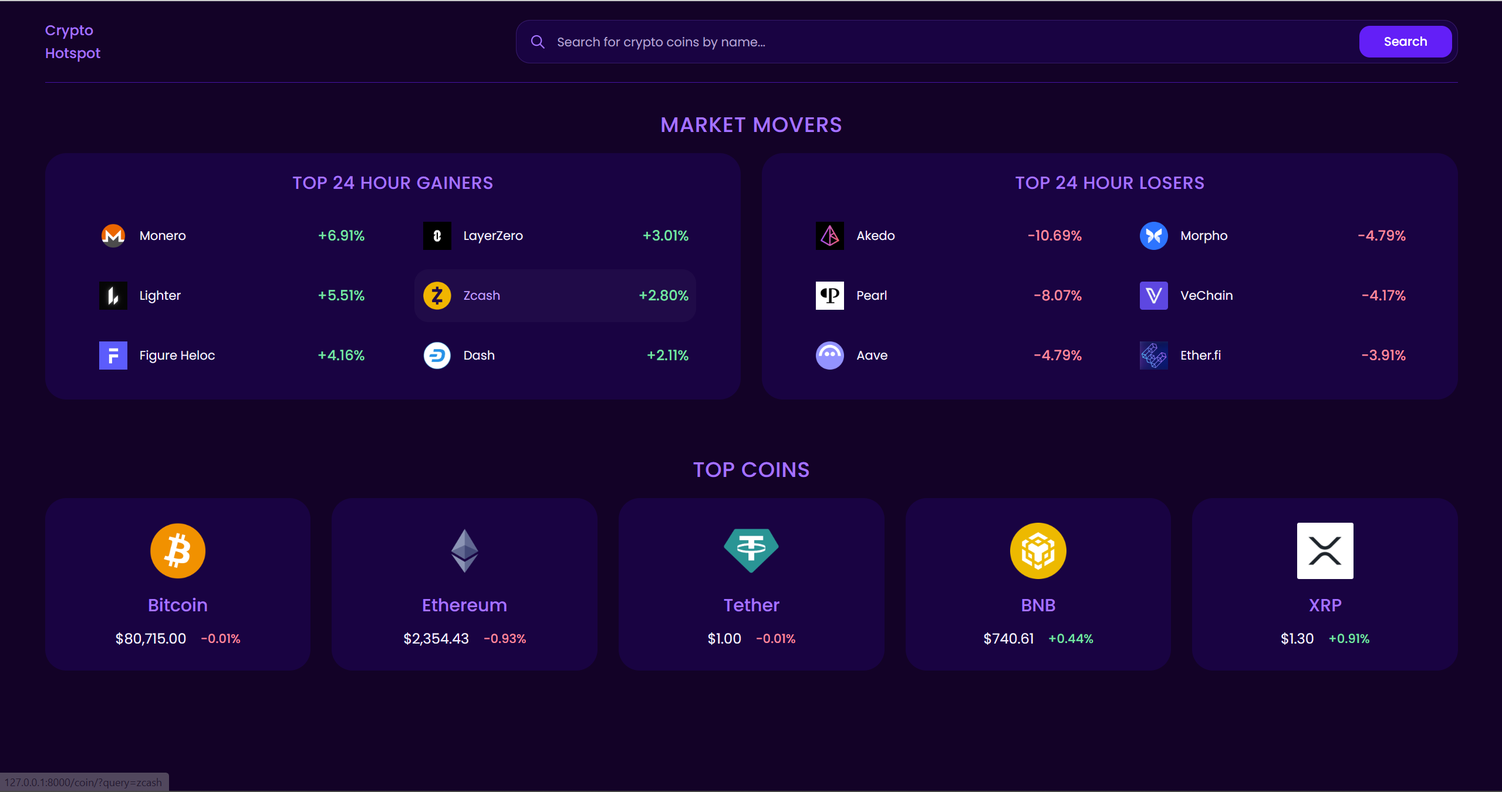
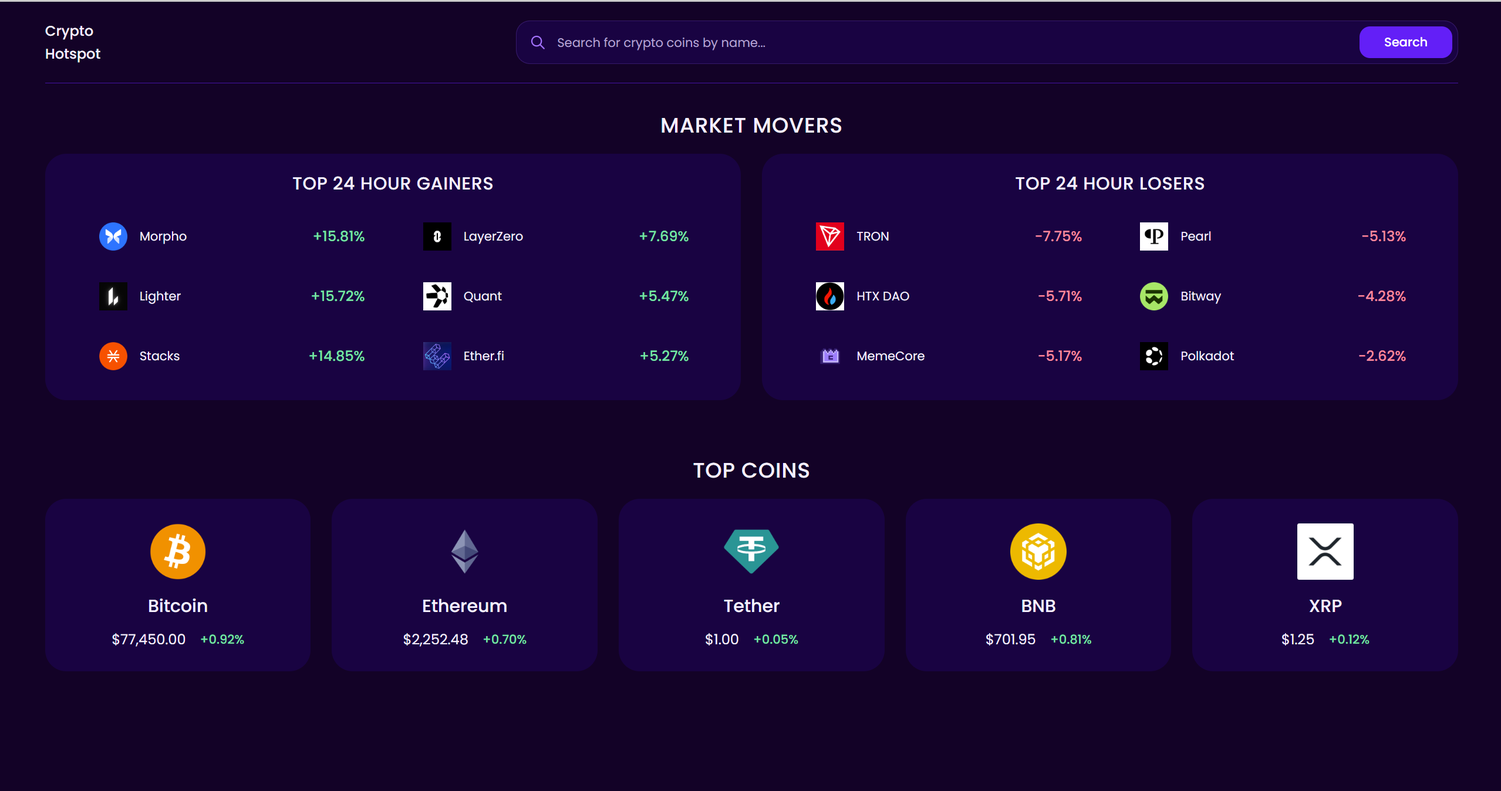
Updated dashboard text colors

diff --git a/tracker/static/css/tailwind.css b/tracker/static/css/tailwind.css
@@ -1,2 +1,2 @@
 /*! tailwindcss v4.3.3 | MIT License | https://tailwindcss.com */
-@layer properties{@supports (((-webkit-hyphens:none)) and (not (margin-trim:inline))) or ((-moz-orient:inline) and (not (color:rgb(from red r g b)))){*,:before,:after,::backdrop{--tw-space-y-reverse:0;--tw-border-style:solid;--tw-leading:initial;--tw-font-weight:initial;--tw-tracking:initial;--tw-ordinal:initial;--tw-slashed-zero:initial;--tw-numeric-figure:initial;--tw-numeric-spacing:initial;--tw-numeric-fraction:initial;--tw-shadow:0 0 #0000;--tw-shadow-color:initial;--tw-shadow-alpha:100%;--tw-inset-shadow:0 0 #0000;--tw-inset-shadow-color:initial;--tw-inset-shadow-alpha:100%;--tw-ring-color:initial;--tw-ring-shadow:0 0 #0000;--tw-inset-ring-color:initial;--tw-inset-ring-shadow:0 0 #0000;--tw-ring-inset:initial;--tw-ring-offset-width:0px;--tw-ring-offset-color:#fff;--tw-ring-offset-shadow:0 0 #0000;--tw-outline-style:solid}}}@layer theme{:root,:host{--font-sans:-apple-system, BlinkMacSystemFont, "Segoe UI", Roboto, "Helvetica Neue", "Noto Sans", Arial, sans-serif, "Apple Color Emoji", "Segoe UI Emoji", "Segoe UI Symbol", "Noto Color Emoji";--font-mono:ui-monospace, SFMono-Regular, Menlo, Monaco, Consolas, "Liberation Mono", "Courier New", monospace;--color-white:#fff;--spacing:.25rem;--text-xs:.75rem;--text-xs--line-height:calc(1 / .75);--text-sm:.875rem;--text-sm--line-height:calc(1.25 / .875);--text-base:1rem;--text-base--line-height:calc(1.5 / 1);--text-xl:1.25rem;--text-xl--line-height:calc(1.75 / 1.25);--text-2xl:1.5rem;--text-2xl--line-height:calc(2 / 1.5);--font-weight-normal:400;--font-weight-medium:500;--tracking-wide:.025em;--leading-relaxed:1.625;--radius-sm:.25rem;--radius-lg:.5rem;--radius-xl:.75rem;--radius-2xl:1rem;--radius-3xl:1.5rem;--default-transition-duration:.15s;--default-transition-timing-function:cubic-bezier(.4, 0, .2, 1);--default-font-family:var(--font-sans);--default-mono-font-family:var(--font-mono)}}@layer base{*,:after,:before,::backdrop{box-sizing:border-box;border:0 solid;margin:0;padding:0}::file-selector-button{box-sizing:border-box;border:0 solid;margin:0;padding:0}html,:host{-webkit-text-size-adjust:100%;tab-size:4;line-height:1.5;font-family:var(--default-font-family,-apple-system, BlinkMacSystemFont, "Segoe UI", Roboto, "Helvetica Neue", "Noto Sans", Arial, sans-serif, "Apple Color Emoji", "Segoe UI Emoji", "Segoe UI Symbol", "Noto Color Emoji");font-feature-settings:var(--default-font-feature-settings,normal);font-variation-settings:var(--default-font-variation-settings,normal);-webkit-tap-highlight-color:transparent}hr{height:0;color:inherit;border-top-width:1px}abbr:where([title]){-webkit-text-decoration:underline dotted;text-decoration:underline dotted}h1,h2,h3,h4,h5,h6{font-size:inherit;font-weight:inherit}a{color:inherit;-webkit-text-decoration:inherit;-webkit-text-decoration:inherit;-webkit-text-decoration:inherit;text-decoration:inherit}b,strong{font-weight:bolder}code,kbd,samp,pre{font-family:var(--default-mono-font-family,ui-monospace, SFMono-Regular, Menlo, Monaco, Consolas, "Liberation Mono", "Courier New", monospace);font-feature-settings:var(--default-mono-font-feature-settings,normal);font-variation-settings:var(--default-mono-font-variation-settings,normal);font-size:1em}small{font-size:80%}sub,sup{vertical-align:baseline;font-size:75%;line-height:0;position:relative}sub{bottom:-.25em}sup{top:-.5em}table{text-indent:0;border-color:inherit;border-collapse:collapse}:-moz-focusring:where(:not(iframe)){outline:auto}progress{vertical-align:baseline}summary{display:list-item}ol,ul,menu{list-style:none}img,svg,video,canvas,audio,iframe,embed,object{vertical-align:middle;display:block}img,video{max-width:100%;height:auto}button,input,select,optgroup,textarea{font:inherit;font-feature-settings:inherit;font-variation-settings:inherit;letter-spacing:inherit;color:inherit;opacity:1;background-color:#0000;border-radius:0}::file-selector-button{font:inherit;font-feature-settings:inherit;font-variation-settings:inherit;letter-spacing:inherit;color:inherit;opacity:1;background-color:#0000;border-radius:0}:where(select:is([multiple],[size])) optgroup{font-weight:bolder}:where(select:is([multiple],[size])) optgroup option{padding-inline-start:20px}::file-selector-button{margin-inline-end:4px}::placeholder{opacity:1}@supports (not ((-webkit-appearance:-apple-pay-button))) or (contain-intrinsic-size:1px){::placeholder{color:currentColor}@supports (color:color-mix(in lab, red, red)){::placeholder{color:color-mix(in oklab, currentcolor 50%, transparent)}}}textarea{resize:vertical}::-webkit-search-decoration{-webkit-appearance:none}::-webkit-date-and-time-value{min-height:1lh;text-align:inherit}::-webkit-datetime-edit{display:inline-flex}::-webkit-datetime-edit-fields-wrapper{padding:0}::-webkit-datetime-edit{padding-block:0}::-webkit-datetime-edit-year-field{padding-block:0}::-webkit-datetime-edit-month-field{padding-block:0}::-webkit-datetime-edit-day-field{padding-block:0}::-webkit-datetime-edit-hour-field{padding-block:0}::-webkit-datetime-edit-minute-field{padding-block:0}::-webkit-datetime-edit-second-field{padding-block:0}::-webkit-datetime-edit-millisecond-field{padding-block:0}::-webkit-datetime-edit-meridiem-field{padding-block:0}::-webkit-calendar-picker-indicator{line-height:1}:-moz-ui-invalid{box-shadow:none}button,input:where([type=button],[type=reset],[type=submit]){appearance:button}::file-selector-button{appearance:button}::-webkit-inner-spin-button{height:auto}::-webkit-outer-spin-button{height:auto}[hidden]:where(:not([hidden=until-found])){display:none!important}html{color-scheme:dark}body{margin:0}}@layer components;@layer utilities{.sr-only{clip-path:inset(50%);white-space:nowrap;border-width:0;width:1px;height:1px;margin:-1px;padding:0;position:absolute;overflow:hidden}.relative{position:relative}.static{position:static}.order-1{order:1}.order-2{order:2}.order-3{order:3}.order-4{order:4}.col-span-full{grid-column:1/-1}.row-span-full{grid-row:1/-1}.mx-auto{margin-inline:auto}.mt-2{margin-top:calc(var(--spacing) * 2)}.mt-3{margin-top:calc(var(--spacing) * 3)}.mb-3{margin-bottom:calc(var(--spacing) * 3)}.mb-4{margin-bottom:calc(var(--spacing) * 4)}.mb-5{margin-bottom:calc(var(--spacing) * 5)}.mb-6{margin-bottom:calc(var(--spacing) * 6)}.ml-2{margin-left:calc(var(--spacing) * 2)}.line-clamp-2{-webkit-line-clamp:2;-webkit-box-orient:vertical;display:-webkit-box;overflow:hidden}.block{display:block}.flex{display:flex}.grid{display:grid}.hidden{display:none}.inline-flex{display:inline-flex}.size-5{width:calc(var(--spacing) * 5);height:calc(var(--spacing) * 5)}.size-8{width:calc(var(--spacing) * 8);height:calc(var(--spacing) * 8)}.size-9{width:calc(var(--spacing) * 9);height:calc(var(--spacing) * 9)}.size-16{width:calc(var(--spacing) * 16);height:calc(var(--spacing) * 16)}.size-18{width:calc(var(--spacing) * 18);height:calc(var(--spacing) * 18)}.h-9{height:calc(var(--spacing) * 9)}.h-96{height:calc(var(--spacing) * 96)}.min-h-0{min-height:0}.min-h-screen{min-height:100vh}.w-\[94\%\]{width:94%}.w-fit{width:fit-content}.w-full{width:100%}.max-w-\[20rem\]{max-width:20rem}.max-w-\[43rem\]{max-width:43rem}.min-w-0{min-width:0}.flex-1{flex:1}.shrink-0{flex-shrink:0}.cursor-pointer{cursor:pointer}.\[scrollbar-width\:thin\]{scrollbar-width:thin}.\[scrollbar-color\:\#6805F2_transparent\]{scrollbar-color:#6805f2 transparent}.grid-cols-1{grid-template-columns:repeat(1,minmax(0,1fr))}.grid-cols-2{grid-template-columns:repeat(2,minmax(0,1fr))}.grid-cols-\[2\.25rem_minmax\(0\,1fr\)_auto\]{grid-template-columns:2.25rem minmax(0,1fr) auto}.flex-col{flex-direction:column}.flex-wrap{flex-wrap:wrap}.items-center{align-items:center}.justify-center{justify-content:center}.justify-items-center{justify-items:center}.gap-1\.5{gap:calc(var(--spacing) * 1.5)}.gap-2{gap:calc(var(--spacing) * 2)}.gap-3{gap:calc(var(--spacing) * 3)}.gap-4{gap:calc(var(--spacing) * 4)}.gap-5{gap:calc(var(--spacing) * 5)}:where(.space-y-2>:not(:last-child)){--tw-space-y-reverse:0;margin-block-start:calc(calc(var(--spacing) * 2) * var(--tw-space-y-reverse));margin-block-end:calc(calc(var(--spacing) * 2) * calc(1 - var(--tw-space-y-reverse)))}:where(.space-y-3>:not(:last-child)){--tw-space-y-reverse:0;margin-block-start:calc(calc(var(--spacing) * 3) * var(--tw-space-y-reverse));margin-block-end:calc(calc(var(--spacing) * 3) * calc(1 - var(--tw-space-y-reverse)))}:where(.space-y-8>:not(:last-child)){--tw-space-y-reverse:0;margin-block-start:calc(calc(var(--spacing) * 8) * var(--tw-space-y-reverse));margin-block-end:calc(calc(var(--spacing) * 8) * calc(1 - var(--tw-space-y-reverse)))}.gap-x-3{column-gap:calc(var(--spacing) * 3)}.gap-x-4{column-gap:calc(var(--spacing) * 4)}.gap-x-10{column-gap:calc(var(--spacing) * 10)}.gap-y-1{row-gap:var(--spacing)}.gap-y-2{row-gap:calc(var(--spacing) * 2)}.gap-y-6{row-gap:calc(var(--spacing) * 6)}.truncate{text-overflow:ellipsis;white-space:nowrap;overflow:hidden}.overflow-y-auto{overflow-y:auto}.rounded{border-radius:.25rem}.rounded-2xl{border-radius:var(--radius-2xl)}.rounded-3xl{border-radius:var(--radius-3xl)}.rounded-lg{border-radius:var(--radius-lg)}.rounded-sm{border-radius:var(--radius-sm)}.rounded-xl{border-radius:var(--radius-xl)}.border{border-style:var(--tw-border-style);border-width:1px}.border-0{border-style:var(--tw-border-style);border-width:0}.border-b{border-bottom-style:var(--tw-border-style);border-bottom-width:1px}.border-\[\#6805F2\]\/60{border-color:oklab(49.3026% .0862667 -.266985/.6)}.border-\[\#A970FF\]\/20{border-color:oklab(66.9861% .10007 -.179237/.2)}.bg-\[\#1B0140\]{background-color:#1b0140}.bg-\[\#6805F2\]{background-color:#6805f2}.bg-\[\#140126\]{background-color:#140126}.bg-transparent{background-color:#0000}.object-contain{object-fit:contain}.p-1\.5{padding:calc(var(--spacing) * 1.5)}.p-4{padding:calc(var(--spacing) * 4)}.p-5{padding:calc(var(--spacing) * 5)}.px-1{padding-inline:var(--spacing)}.px-2{padding-inline:calc(var(--spacing) * 2)}.px-3{padding-inline:calc(var(--spacing) * 3)}.px-4{padding-inline:calc(var(--spacing) * 4)}.px-5{padding-inline:calc(var(--spacing) * 5)}.py-3{padding-block:calc(var(--spacing) * 3)}.py-4{padding-block:calc(var(--spacing) * 4)}.py-5{padding-block:calc(var(--spacing) * 5)}.py-6{padding-block:calc(var(--spacing) * 6)}.py-8{padding-block:calc(var(--spacing) * 8)}.pr-2{padding-right:calc(var(--spacing) * 2)}.text-center{text-align:center}.text-right{text-align:right}.font-\[\'Poppins\'\,sans-serif\]{font-family:Poppins,sans-serif}.text-2xl{font-size:var(--text-2xl);line-height:var(--tw-leading,var(--text-2xl--line-height))}.text-base{font-size:var(--text-base);line-height:var(--tw-leading,var(--text-base--line-height))}.text-sm{font-size:var(--text-sm);line-height:var(--tw-leading,var(--text-sm--line-height))}.text-xl{font-size:var(--text-xl);line-height:var(--tw-leading,var(--text-xl--line-height))}.text-xs{font-size:var(--text-xs);line-height:var(--tw-leading,var(--text-xs--line-height))}.leading-relaxed{--tw-leading:var(--leading-relaxed);line-height:var(--leading-relaxed)}.font-medium{--tw-font-weight:var(--font-weight-medium);font-weight:var(--font-weight-medium)}.font-normal{--tw-font-weight:var(--font-weight-normal);font-weight:var(--font-weight-normal)}.tracking-wide{--tw-tracking:var(--tracking-wide);letter-spacing:var(--tracking-wide)}.break-words{overflow-wrap:break-word}.whitespace-nowrap{white-space:nowrap}.text-\[\#66E5A5\]{color:#66e5a5}.text-\[\#A970FF\]{color:#a970ff}.text-\[\#B7A3CF\]{color:#b7a3cf}.text-\[\#C7A0FF\]{color:#c7a0ff}.text-\[\#CDBDE5\]{color:#cdbde5}.text-\[\#D8C9ED\]{color:#d8c9ed}.text-\[\#F5F0FF\]{color:#f5f0ff}.text-\[\#FF8C9F\]{color:#ff8c9f}.text-white{color:var(--color-white)}.uppercase{text-transform:uppercase}.tabular-nums{--tw-numeric-spacing:tabular-nums;font-variant-numeric:var(--tw-ordinal,) var(--tw-slashed-zero,) var(--tw-numeric-figure,) var(--tw-numeric-spacing,) var(--tw-numeric-fraction,)}.antialiased{-webkit-font-smoothing:antialiased;-moz-osx-font-smoothing:grayscale}.transition-colors{transition-property:color,background-color,border-color,outline-color,text-decoration-color,fill,stroke,--tw-gradient-from,--tw-gradient-via,--tw-gradient-to;transition-timing-function:var(--tw-ease,var(--default-transition-timing-function));transition-duration:var(--tw-duration,var(--default-transition-duration))}@media (hover:hover){.group-hover\:text-\[\#C7A0FF\]:is(:where(.group):hover *){color:#c7a0ff}}.selection\:bg-\[\#6805F2\] ::selection{background-color:#6805f2}.selection\:bg-\[\#6805F2\]::selection{background-color:#6805f2}.selection\:text-white ::selection{color:var(--color-white)}.selection\:text-white::selection{color:var(--color-white)}.placeholder\:text-\[\#B7A3CF\]::placeholder{color:#b7a3cf}.focus-within\:border-\[\#A970FF\]\/70:focus-within{border-color:oklab(66.9861% .10007 -.179237/.7)}.focus-within\:ring-2:focus-within{--tw-ring-shadow:var(--tw-ring-inset,) 0 0 0 calc(2px + var(--tw-ring-offset-width)) var(--tw-ring-color,currentcolor);box-shadow:var(--tw-inset-shadow), var(--tw-inset-ring-shadow), var(--tw-ring-offset-shadow), var(--tw-ring-shadow), var(--tw-shadow)}.focus-within\:ring-\[\#A970FF\]\/10:focus-within{--tw-ring-color:oklab(66.9861% .10007 -.179237/.1)}@media (hover:hover){.hover\:bg-\[\#7C24FF\]:hover{background-color:#7c24ff}.hover\:bg-\[\#210647\]:hover{background-color:#210647}.hover\:bg-white\/\[0\.03\]:hover{background-color:#ffffff08}@supports (color:color-mix(in lab, red, red)){.hover\:bg-white\/\[0\.03\]:hover{background-color:color-mix(in oklab, var(--color-white) 3%, transparent)}}.hover\:text-\[\#C7A0FF\]:hover{color:#c7a0ff}}.focus\:not-sr-only:focus{clip-path:none;white-space:normal;width:auto;height:auto;margin:0;padding:0;position:static;overflow:visible}.focus\:absolute:focus{position:absolute}.focus\:top-4:focus{top:calc(var(--spacing) * 4)}.focus\:left-4:focus{left:calc(var(--spacing) * 4)}.focus\:z-50:focus{z-index:50}.focus\:rounded-xl:focus{border-radius:var(--radius-xl)}.focus\:bg-\[\#6805F2\]:focus{background-color:#6805f2}.focus\:px-5:focus{padding-inline:calc(var(--spacing) * 5)}.focus\:py-2:focus{padding-block:calc(var(--spacing) * 2)}.focus\:text-white:focus{color:var(--color-white)}.focus\:outline-none:focus{--tw-outline-style:none;outline-style:none}.focus-visible\:outline-2:focus-visible{outline-style:var(--tw-outline-style);outline-width:2px}.focus-visible\:-outline-offset-2:focus-visible{outline-offset:calc(2px * -1)}.focus-visible\:outline-offset-2:focus-visible{outline-offset:2px}.focus-visible\:outline-offset-4:focus-visible{outline-offset:4px}.focus-visible\:outline-\[\#A970FF\]:focus-visible{outline-color:#a970ff}.focus-visible\:outline-\[\#C7A0FF\]:focus-visible{outline-color:#c7a0ff}@media (min-width:40rem){.sm\:col-span-2{grid-column:span 2/span 2}.sm\:w-3\/4{width:75%}.sm\:grid-flow-col{grid-auto-flow:column}.sm\:grid-cols-2{grid-template-columns:repeat(2,minmax(0,1fr))}.sm\:grid-cols-4{grid-template-columns:repeat(4,minmax(0,1fr))}.sm\:grid-rows-3{grid-template-rows:repeat(3,minmax(0,1fr))}.sm\:flex-row{flex-direction:row}.sm\:items-center{align-items:center}.sm\:justify-between{justify-content:space-between}.sm\:gap-8{gap:calc(var(--spacing) * 8)}.sm\:p-5{padding:calc(var(--spacing) * 5)}.sm\:px-6{padding-inline:calc(var(--spacing) * 6)}.sm\:px-7{padding-inline:calc(var(--spacing) * 7)}.sm\:py-5{padding-block:calc(var(--spacing) * 5)}}@media (min-width:64rem){.lg\:order-none{order:0}.lg\:col-span-5{grid-column:span 5/span 5}.lg\:h-\[calc\(100dvh-11rem\)\]{height:calc(100dvh - 11rem)}.lg\:h-auto{height:auto}.lg\:min-h-\[31rem\]{min-height:31rem}.lg\:w-2\/3{width:66.6667%}.lg\:grid-flow-row{grid-auto-flow:row}.lg\:grid-cols-1{grid-template-columns:repeat(1,minmax(0,1fr))}.lg\:grid-cols-2{grid-template-columns:repeat(2,minmax(0,1fr))}.lg\:grid-cols-5{grid-template-columns:repeat(5,minmax(0,1fr))}.lg\:grid-cols-\[minmax\(0\,3fr\)_minmax\(0\,7fr\)\]{grid-template-columns:minmax(0,3fr) minmax(0,7fr)}.lg\:grid-rows-\[10rem_minmax\(0\,1fr\)\]{grid-template-rows:10rem minmax(0,1fr)}.lg\:grid-rows-none{grid-template-rows:none}.lg\:gap-6{gap:calc(var(--spacing) * 6)}:where(.lg\:space-y-16>:not(:last-child)){--tw-space-y-reverse:0;margin-block-start:calc(calc(var(--spacing) * 16) * var(--tw-space-y-reverse));margin-block-end:calc(calc(var(--spacing) * 16) * calc(1 - var(--tw-space-y-reverse)))}.lg\:pt-3{padding-top:calc(var(--spacing) * 3)}}@media (min-width:80rem){.xl\:grid-flow-col{grid-auto-flow:column}.xl\:grid-cols-2{grid-template-columns:repeat(2,minmax(0,1fr))}.xl\:grid-rows-3{grid-template-rows:repeat(3,minmax(0,1fr))}.xl\:gap-x-4{column-gap:calc(var(--spacing) * 4)}.xl\:gap-x-12{column-gap:calc(var(--spacing) * 12)}.xl\:text-2xl{font-size:var(--text-2xl);line-height:var(--tw-leading,var(--text-2xl--line-height))}}}@property --tw-space-y-reverse{syntax:"*";inherits:false;initial-value:0}@property --tw-border-style{syntax:"*";inherits:false;initial-value:solid}@property --tw-leading{syntax:"*";inherits:false}@property --tw-font-weight{syntax:"*";inherits:false}@property --tw-tracking{syntax:"*";inherits:false}@property --tw-ordinal{syntax:"*";inherits:false}@property --tw-slashed-zero{syntax:"*";inherits:false}@property --tw-numeric-figure{syntax:"*";inherits:false}@property --tw-numeric-spacing{syntax:"*";inherits:false}@property --tw-numeric-fraction{syntax:"*";inherits:false}@property --tw-shadow{syntax:"*";inherits:false;initial-value:0 0 #0000}@property --tw-shadow-color{syntax:"*";inherits:false}@property --tw-shadow-alpha{syntax:"<percentage>";inherits:false;initial-value:100%}@property --tw-inset-shadow{syntax:"*";inherits:false;initial-value:0 0 #0000}@property --tw-inset-shadow-color{syntax:"*";inherits:false}@property --tw-inset-shadow-alpha{syntax:"<percentage>";inherits:false;initial-value:100%}@property --tw-ring-color{syntax:"*";inherits:false}@property --tw-ring-shadow{syntax:"*";inherits:false;initial-value:0 0 #0000}@property --tw-inset-ring-color{syntax:"*";inherits:false}@property --tw-inset-ring-shadow{syntax:"*";inherits:false;initial-value:0 0 #0000}@property --tw-ring-inset{syntax:"*";inherits:false}@property --tw-ring-offset-width{syntax:"<length>";inherits:false;initial-value:0}@property --tw-ring-offset-color{syntax:"*";inherits:false;initial-value:#fff}@property --tw-ring-offset-shadow{syntax:"*";inherits:false;initial-value:0 0 #0000}@property --tw-outline-style{syntax:"*";inherits:false;initial-value:solid}
+@layer properties{@supports (((-webkit-hyphens:none)) and (not (margin-trim:inline))) or ((-moz-orient:inline) and (not (color:rgb(from red r g b)))){*,:before,:after,::backdrop{--tw-space-y-reverse:0;--tw-border-style:solid;--tw-leading:initial;--tw-font-weight:initial;--tw-tracking:initial;--tw-ordinal:initial;--tw-slashed-zero:initial;--tw-numeric-figure:initial;--tw-numeric-spacing:initial;--tw-numeric-fraction:initial;--tw-shadow:0 0 #0000;--tw-shadow-color:initial;--tw-shadow-alpha:100%;--tw-inset-shadow:0 0 #0000;--tw-inset-shadow-color:initial;--tw-inset-shadow-alpha:100%;--tw-ring-color:initial;--tw-ring-shadow:0 0 #0000;--tw-inset-ring-color:initial;--tw-inset-ring-shadow:0 0 #0000;--tw-ring-inset:initial;--tw-ring-offset-width:0px;--tw-ring-offset-color:#fff;--tw-ring-offset-shadow:0 0 #0000;--tw-outline-style:solid}}}@layer theme{:root,:host{--font-sans:-apple-system, BlinkMacSystemFont, "Segoe UI", Roboto, "Helvetica Neue", "Noto Sans", Arial, sans-serif, "Apple Color Emoji", "Segoe UI Emoji", "Segoe UI Symbol", "Noto Color Emoji";--font-mono:ui-monospace, SFMono-Regular, Menlo, Monaco, Consolas, "Liberation Mono", "Courier New", monospace;--color-white:#fff;--spacing:.25rem;--text-xs:.75rem;--text-xs--line-height:calc(1 / .75);--text-sm:.875rem;--text-sm--line-height:calc(1.25 / .875);--text-base:1rem;--text-base--line-height:calc(1.5 / 1);--text-xl:1.25rem;--text-xl--line-height:calc(1.75 / 1.25);--text-2xl:1.5rem;--text-2xl--line-height:calc(2 / 1.5);--font-weight-normal:400;--font-weight-medium:500;--tracking-wide:.025em;--leading-relaxed:1.625;--radius-sm:.25rem;--radius-lg:.5rem;--radius-xl:.75rem;--radius-2xl:1rem;--radius-3xl:1.5rem;--default-transition-duration:.15s;--default-transition-timing-function:cubic-bezier(.4, 0, .2, 1);--default-font-family:var(--font-sans);--default-mono-font-family:var(--font-mono)}}@layer base{*,:after,:before,::backdrop{box-sizing:border-box;border:0 solid;margin:0;padding:0}::file-selector-button{box-sizing:border-box;border:0 solid;margin:0;padding:0}html,:host{-webkit-text-size-adjust:100%;tab-size:4;line-height:1.5;font-family:var(--default-font-family,-apple-system, BlinkMacSystemFont, "Segoe UI", Roboto, "Helvetica Neue", "Noto Sans", Arial, sans-serif, "Apple Color Emoji", "Segoe UI Emoji", "Segoe UI Symbol", "Noto Color Emoji");font-feature-settings:var(--default-font-feature-settings,normal);font-variation-settings:var(--default-font-variation-settings,normal);-webkit-tap-highlight-color:transparent}hr{height:0;color:inherit;border-top-width:1px}abbr:where([title]){-webkit-text-decoration:underline dotted;text-decoration:underline dotted}h1,h2,h3,h4,h5,h6{font-size:inherit;font-weight:inherit}a{color:inherit;-webkit-text-decoration:inherit;-webkit-text-decoration:inherit;-webkit-text-decoration:inherit;text-decoration:inherit}b,strong{font-weight:bolder}code,kbd,samp,pre{font-family:var(--default-mono-font-family,ui-monospace, SFMono-Regular, Menlo, Monaco, Consolas, "Liberation Mono", "Courier New", monospace);font-feature-settings:var(--default-mono-font-feature-settings,normal);font-variation-settings:var(--default-mono-font-variation-settings,normal);font-size:1em}small{font-size:80%}sub,sup{vertical-align:baseline;font-size:75%;line-height:0;position:relative}sub{bottom:-.25em}sup{top:-.5em}table{text-indent:0;border-color:inherit;border-collapse:collapse}:-moz-focusring:where(:not(iframe)){outline:auto}progress{vertical-align:baseline}summary{display:list-item}ol,ul,menu{list-style:none}img,svg,video,canvas,audio,iframe,embed,object{vertical-align:middle;display:block}img,video{max-width:100%;height:auto}button,input,select,optgroup,textarea{font:inherit;font-feature-settings:inherit;font-variation-settings:inherit;letter-spacing:inherit;color:inherit;opacity:1;background-color:#0000;border-radius:0}::file-selector-button{font:inherit;font-feature-settings:inherit;font-variation-settings:inherit;letter-spacing:inherit;color:inherit;opacity:1;background-color:#0000;border-radius:0}:where(select:is([multiple],[size])) optgroup{font-weight:bolder}:where(select:is([multiple],[size])) optgroup option{padding-inline-start:20px}::file-selector-button{margin-inline-end:4px}::placeholder{opacity:1}@supports (not ((-webkit-appearance:-apple-pay-button))) or (contain-intrinsic-size:1px){::placeholder{color:currentColor}@supports (color:color-mix(in lab, red, red)){::placeholder{color:color-mix(in oklab, currentcolor 50%, transparent)}}}textarea{resize:vertical}::-webkit-search-decoration{-webkit-appearance:none}::-webkit-date-and-time-value{min-height:1lh;text-align:inherit}::-webkit-datetime-edit{display:inline-flex}::-webkit-datetime-edit-fields-wrapper{padding:0}::-webkit-datetime-edit{padding-block:0}::-webkit-datetime-edit-year-field{padding-block:0}::-webkit-datetime-edit-month-field{padding-block:0}::-webkit-datetime-edit-day-field{padding-block:0}::-webkit-datetime-edit-hour-field{padding-block:0}::-webkit-datetime-edit-minute-field{padding-block:0}::-webkit-datetime-edit-second-field{padding-block:0}::-webkit-datetime-edit-millisecond-field{padding-block:0}::-webkit-datetime-edit-meridiem-field{padding-block:0}::-webkit-calendar-picker-indicator{line-height:1}:-moz-ui-invalid{box-shadow:none}button,input:where([type=button],[type=reset],[type=submit]){appearance:button}::file-selector-button{appearance:button}::-webkit-inner-spin-button{height:auto}::-webkit-outer-spin-button{height:auto}[hidden]:where(:not([hidden=until-found])){display:none!important}html{color-scheme:dark}body{margin:0}}@layer components;@layer utilities{.sr-only{clip-path:inset(50%);white-space:nowrap;border-width:0;width:1px;height:1px;margin:-1px;padding:0;position:absolute;overflow:hidden}.relative{position:relative}.static{position:static}.order-1{order:1}.order-2{order:2}.order-3{order:3}.order-4{order:4}.col-span-full{grid-column:1/-1}.row-span-full{grid-row:1/-1}.mx-auto{margin-inline:auto}.mt-2{margin-top:calc(var(--spacing) * 2)}.mt-3{margin-top:calc(var(--spacing) * 3)}.mb-3{margin-bottom:calc(var(--spacing) * 3)}.mb-4{margin-bottom:calc(var(--spacing) * 4)}.mb-5{margin-bottom:calc(var(--spacing) * 5)}.mb-6{margin-bottom:calc(var(--spacing) * 6)}.ml-2{margin-left:calc(var(--spacing) * 2)}.line-clamp-2{-webkit-line-clamp:2;-webkit-box-orient:vertical;display:-webkit-box;overflow:hidden}.block{display:block}.flex{display:flex}.grid{display:grid}.hidden{display:none}.inline-flex{display:inline-flex}.size-5{width:calc(var(--spacing) * 5);height:calc(var(--spacing) * 5)}.size-8{width:calc(var(--spacing) * 8);height:calc(var(--spacing) * 8)}.size-9{width:calc(var(--spacing) * 9);height:calc(var(--spacing) * 9)}.size-16{width:calc(var(--spacing) * 16);height:calc(var(--spacing) * 16)}.size-18{width:calc(var(--spacing) * 18);height:calc(var(--spacing) * 18)}.h-9{height:calc(var(--spacing) * 9)}.h-96{height:calc(var(--spacing) * 96)}.min-h-0{min-height:0}.min-h-screen{min-height:100vh}.w-\[94\%\]{width:94%}.w-fit{width:fit-content}.w-full{width:100%}.max-w-\[20rem\]{max-width:20rem}.max-w-\[43rem\]{max-width:43rem}.min-w-0{min-width:0}.flex-1{flex:1}.shrink-0{flex-shrink:0}.cursor-pointer{cursor:pointer}.\[scrollbar-width\:thin\]{scrollbar-width:thin}.\[scrollbar-color\:\#6805F2_transparent\]{scrollbar-color:#6805f2 transparent}.grid-cols-1{grid-template-columns:repeat(1,minmax(0,1fr))}.grid-cols-2{grid-template-columns:repeat(2,minmax(0,1fr))}.grid-cols-\[2\.25rem_minmax\(0\,1fr\)_auto\]{grid-template-columns:2.25rem minmax(0,1fr) auto}.flex-col{flex-direction:column}.flex-wrap{flex-wrap:wrap}.items-center{align-items:center}.justify-center{justify-content:center}.justify-items-center{justify-items:center}.gap-1\.5{gap:calc(var(--spacing) * 1.5)}.gap-2{gap:calc(var(--spacing) * 2)}.gap-3{gap:calc(var(--spacing) * 3)}.gap-4{gap:calc(var(--spacing) * 4)}.gap-5{gap:calc(var(--spacing) * 5)}:where(.space-y-2>:not(:last-child)){--tw-space-y-reverse:0;margin-block-start:calc(calc(var(--spacing) * 2) * var(--tw-space-y-reverse));margin-block-end:calc(calc(var(--spacing) * 2) * calc(1 - var(--tw-space-y-reverse)))}:where(.space-y-3>:not(:last-child)){--tw-space-y-reverse:0;margin-block-start:calc(calc(var(--spacing) * 3) * var(--tw-space-y-reverse));margin-block-end:calc(calc(var(--spacing) * 3) * calc(1 - var(--tw-space-y-reverse)))}:where(.space-y-8>:not(:last-child)){--tw-space-y-reverse:0;margin-block-start:calc(calc(var(--spacing) * 8) * var(--tw-space-y-reverse));margin-block-end:calc(calc(var(--spacing) * 8) * calc(1 - var(--tw-space-y-reverse)))}.gap-x-3{column-gap:calc(var(--spacing) * 3)}.gap-x-4{column-gap:calc(var(--spacing) * 4)}.gap-x-10{column-gap:calc(var(--spacing) * 10)}.gap-y-1{row-gap:var(--spacing)}.gap-y-2{row-gap:calc(var(--spacing) * 2)}.gap-y-6{row-gap:calc(var(--spacing) * 6)}.truncate{text-overflow:ellipsis;white-space:nowrap;overflow:hidden}.overflow-y-auto{overflow-y:auto}.rounded{border-radius:.25rem}.rounded-2xl{border-radius:var(--radius-2xl)}.rounded-3xl{border-radius:var(--radius-3xl)}.rounded-lg{border-radius:var(--radius-lg)}.rounded-sm{border-radius:var(--radius-sm)}.rounded-xl{border-radius:var(--radius-xl)}.border{border-style:var(--tw-border-style);border-width:1px}.border-0{border-style:var(--tw-border-style);border-width:0}.border-b{border-bottom-style:var(--tw-border-style);border-bottom-width:1px}.border-\[\#6805F2\]\/60{border-color:oklab(49.3026% .0862667 -.266985/.6)}.border-\[\#A970FF\]\/20{border-color:oklab(66.9861% .10007 -.179237/.2)}.bg-\[\#1B0140\]{background-color:#1b0140}.bg-\[\#6805F2\]{background-color:#6805f2}.bg-\[\#140126\]{background-color:#140126}.bg-transparent{background-color:#0000}.object-contain{object-fit:contain}.p-1\.5{padding:calc(var(--spacing) * 1.5)}.p-4{padding:calc(var(--spacing) * 4)}.p-5{padding:calc(var(--spacing) * 5)}.px-1{padding-inline:var(--spacing)}.px-2{padding-inline:calc(var(--spacing) * 2)}.px-3{padding-inline:calc(var(--spacing) * 3)}.px-4{padding-inline:calc(var(--spacing) * 4)}.px-5{padding-inline:calc(var(--spacing) * 5)}.py-3{padding-block:calc(var(--spacing) * 3)}.py-4{padding-block:calc(var(--spacing) * 4)}.py-5{padding-block:calc(var(--spacing) * 5)}.py-6{padding-block:calc(var(--spacing) * 6)}.py-8{padding-block:calc(var(--spacing) * 8)}.pr-2{padding-right:calc(var(--spacing) * 2)}.text-center{text-align:center}.text-right{text-align:right}.font-\[\'Poppins\'\,sans-serif\]{font-family:Poppins,sans-serif}.text-2xl{font-size:var(--text-2xl);line-height:var(--tw-leading,var(--text-2xl--line-height))}.text-base{font-size:var(--text-base);line-height:var(--tw-leading,var(--text-base--line-height))}.text-sm{font-size:var(--text-sm);line-height:var(--tw-leading,var(--text-sm--line-height))}.text-xl{font-size:var(--text-xl);line-height:var(--tw-leading,var(--text-xl--line-height))}.text-xs{font-size:var(--text-xs);line-height:var(--tw-leading,var(--text-xs--line-height))}.leading-relaxed{--tw-leading:var(--leading-relaxed);line-height:var(--leading-relaxed)}.font-medium{--tw-font-weight:var(--font-weight-medium);font-weight:var(--font-weight-medium)}.font-normal{--tw-font-weight:var(--font-weight-normal);font-weight:var(--font-weight-normal)}.tracking-wide{--tw-tracking:var(--tracking-wide);letter-spacing:var(--tracking-wide)}.break-words{overflow-wrap:break-word}.whitespace-nowrap{white-space:nowrap}.text-\[\#66E5A5\]{color:#66e5a5}.text-\[\#A970FF\]{color:#a970ff}.text-\[\#B7A3CF\]{color:#b7a3cf}.text-\[\#CDBDE5\]{color:#cdbde5}.text-\[\#D8C9ED\]{color:#d8c9ed}.text-\[\#F5F0FF\]{color:#f5f0ff}.text-\[\#FF8C9F\]{color:#ff8c9f}.text-white{color:var(--color-white)}.uppercase{text-transform:uppercase}.tabular-nums{--tw-numeric-spacing:tabular-nums;font-variant-numeric:var(--tw-ordinal,) var(--tw-slashed-zero,) var(--tw-numeric-figure,) var(--tw-numeric-spacing,) var(--tw-numeric-fraction,)}.antialiased{-webkit-font-smoothing:antialiased;-moz-osx-font-smoothing:grayscale}.transition-colors{transition-property:color,background-color,border-color,outline-color,text-decoration-color,fill,stroke,--tw-gradient-from,--tw-gradient-via,--tw-gradient-to;transition-timing-function:var(--tw-ease,var(--default-transition-timing-function));transition-duration:var(--tw-duration,var(--default-transition-duration))}@media (hover:hover){.group-hover\:text-\[\#C7A0FF\]:is(:where(.group):hover *){color:#c7a0ff}}.selection\:bg-\[\#6805F2\] ::selection{background-color:#6805f2}.selection\:bg-\[\#6805F2\]::selection{background-color:#6805f2}.selection\:text-white ::selection{color:var(--color-white)}.selection\:text-white::selection{color:var(--color-white)}.placeholder\:text-\[\#B7A3CF\]::placeholder{color:#b7a3cf}.focus-within\:border-\[\#A970FF\]\/70:focus-within{border-color:oklab(66.9861% .10007 -.179237/.7)}.focus-within\:ring-2:focus-within{--tw-ring-shadow:var(--tw-ring-inset,) 0 0 0 calc(2px + var(--tw-ring-offset-width)) var(--tw-ring-color,currentcolor);box-shadow:var(--tw-inset-shadow), var(--tw-inset-ring-shadow), var(--tw-ring-offset-shadow), var(--tw-ring-shadow), var(--tw-shadow)}.focus-within\:ring-\[\#A970FF\]\/10:focus-within{--tw-ring-color:oklab(66.9861% .10007 -.179237/.1)}@media (hover:hover){.hover\:bg-\[\#7C24FF\]:hover{background-color:#7c24ff}.hover\:bg-\[\#210647\]:hover{background-color:#210647}.hover\:bg-white\/\[0\.03\]:hover{background-color:#ffffff08}@supports (color:color-mix(in lab, red, red)){.hover\:bg-white\/\[0\.03\]:hover{background-color:color-mix(in oklab, var(--color-white) 3%, transparent)}}.hover\:text-\[\#C7A0FF\]:hover{color:#c7a0ff}}.focus\:not-sr-only:focus{clip-path:none;white-space:normal;width:auto;height:auto;margin:0;padding:0;position:static;overflow:visible}.focus\:absolute:focus{position:absolute}.focus\:top-4:focus{top:calc(var(--spacing) * 4)}.focus\:left-4:focus{left:calc(var(--spacing) * 4)}.focus\:z-50:focus{z-index:50}.focus\:rounded-xl:focus{border-radius:var(--radius-xl)}.focus\:bg-\[\#6805F2\]:focus{background-color:#6805f2}.focus\:px-5:focus{padding-inline:calc(var(--spacing) * 5)}.focus\:py-2:focus{padding-block:calc(var(--spacing) * 2)}.focus\:text-white:focus{color:var(--color-white)}.focus\:outline-none:focus{--tw-outline-style:none;outline-style:none}.focus-visible\:outline-2:focus-visible{outline-style:var(--tw-outline-style);outline-width:2px}.focus-visible\:-outline-offset-2:focus-visible{outline-offset:calc(2px * -1)}.focus-visible\:outline-offset-2:focus-visible{outline-offset:2px}.focus-visible\:outline-offset-4:focus-visible{outline-offset:4px}.focus-visible\:outline-\[\#A970FF\]:focus-visible{outline-color:#a970ff}.focus-visible\:outline-\[\#C7A0FF\]:focus-visible{outline-color:#c7a0ff}@media (min-width:40rem){.sm\:col-span-2{grid-column:span 2/span 2}.sm\:w-3\/4{width:75%}.sm\:grid-flow-col{grid-auto-flow:column}.sm\:grid-cols-2{grid-template-columns:repeat(2,minmax(0,1fr))}.sm\:grid-cols-4{grid-template-columns:repeat(4,minmax(0,1fr))}.sm\:grid-rows-3{grid-template-rows:repeat(3,minmax(0,1fr))}.sm\:flex-row{flex-direction:row}.sm\:items-center{align-items:center}.sm\:justify-between{justify-content:space-between}.sm\:gap-8{gap:calc(var(--spacing) * 8)}.sm\:p-5{padding:calc(var(--spacing) * 5)}.sm\:px-6{padding-inline:calc(var(--spacing) * 6)}.sm\:px-7{padding-inline:calc(var(--spacing) * 7)}.sm\:py-5{padding-block:calc(var(--spacing) * 5)}}@media (min-width:64rem){.lg\:order-none{order:0}.lg\:col-span-5{grid-column:span 5/span 5}.lg\:h-\[calc\(100dvh-11rem\)\]{height:calc(100dvh - 11rem)}.lg\:h-auto{height:auto}.lg\:min-h-\[31rem\]{min-height:31rem}.lg\:w-2\/3{width:66.6667%}.lg\:grid-flow-row{grid-auto-flow:row}.lg\:grid-cols-1{grid-template-columns:repeat(1,minmax(0,1fr))}.lg\:grid-cols-2{grid-template-columns:repeat(2,minmax(0,1fr))}.lg\:grid-cols-5{grid-template-columns:repeat(5,minmax(0,1fr))}.lg\:grid-cols-\[minmax\(0\,3fr\)_minmax\(0\,7fr\)\]{grid-template-columns:minmax(0,3fr) minmax(0,7fr)}.lg\:grid-rows-\[10rem_minmax\(0\,1fr\)\]{grid-template-rows:10rem minmax(0,1fr)}.lg\:grid-rows-none{grid-template-rows:none}.lg\:gap-6{gap:calc(var(--spacing) * 6)}:where(.lg\:space-y-16>:not(:last-child)){--tw-space-y-reverse:0;margin-block-start:calc(calc(var(--spacing) * 16) * var(--tw-space-y-reverse));margin-block-end:calc(calc(var(--spacing) * 16) * calc(1 - var(--tw-space-y-reverse)))}.lg\:pt-3{padding-top:calc(var(--spacing) * 3)}}@media (min-width:80rem){.xl\:grid-flow-col{grid-auto-flow:column}.xl\:grid-cols-2{grid-template-columns:repeat(2,minmax(0,1fr))}.xl\:grid-rows-3{grid-template-rows:repeat(3,minmax(0,1fr))}.xl\:gap-x-4{column-gap:calc(var(--spacing) * 4)}.xl\:gap-x-12{column-gap:calc(var(--spacing) * 12)}.xl\:text-2xl{font-size:var(--text-2xl);line-height:var(--tw-leading,var(--text-2xl--line-height))}}}@property --tw-space-y-reverse{syntax:"*";inherits:false;initial-value:0}@property --tw-border-style{syntax:"*";inherits:false;initial-value:solid}@property --tw-leading{syntax:"*";inherits:false}@property --tw-font-weight{syntax:"*";inherits:false}@property --tw-tracking{syntax:"*";inherits:false}@property --tw-ordinal{syntax:"*";inherits:false}@property --tw-slashed-zero{syntax:"*";inherits:false}@property --tw-numeric-figure{syntax:"*";inherits:false}@property --tw-numeric-spacing{syntax:"*";inherits:false}@property --tw-numeric-fraction{syntax:"*";inherits:false}@property --tw-shadow{syntax:"*";inherits:false;initial-value:0 0 #0000}@property --tw-shadow-color{syntax:"*";inherits:false}@property --tw-shadow-alpha{syntax:"<percentage>";inherits:false;initial-value:100%}@property --tw-inset-shadow{syntax:"*";inherits:false;initial-value:0 0 #0000}@property --tw-inset-shadow-color{syntax:"*";inherits:false}@property --tw-inset-shadow-alpha{syntax:"<percentage>";inherits:false;initial-value:100%}@property --tw-ring-color{syntax:"*";inherits:false}@property --tw-ring-shadow{syntax:"*";inherits:false;initial-value:0 0 #0000}@property --tw-inset-ring-color{syntax:"*";inherits:false}@property --tw-inset-ring-shadow{syntax:"*";inherits:false;initial-value:0 0 #0000}@property --tw-ring-inset{syntax:"*";inherits:false}@property --tw-ring-offset-width{syntax:"<length>";inherits:false;initial-value:0}@property --tw-ring-offset-color{syntax:"*";inherits:false;initial-value:#fff}@property --tw-ring-offset-shadow{syntax:"*";inherits:false;initial-value:0 0 #0000}@property --tw-outline-style{syntax:"*";inherits:false;initial-value:solid}

diff --git a/tracker/templates/tracker/coin_view.html b/tracker/templates/tracker/coin_view.html
@@ -6,7 +6,7 @@
 <div class="mb-4">
     <a
         href="{% url 'home' %}"
-        class="inline-flex items-center gap-2 rounded text-sm text-[#A970FF] transition-colors hover:text-[#C7A0FF] focus-visible:outline-2 focus-visible:outline-offset-4 focus-visible:outline-[#A970FF]"
+        class="inline-flex items-center gap-2 rounded text-sm text-[#F5F0FF] transition-colors hover:text-[#C7A0FF] focus-visible:outline-2 focus-visible:outline-offset-4 focus-visible:outline-[#A970FF]"
     >
         <span aria-hidden="true">&larr;</span>
         Back to Dashboard
@@ -40,7 +40,7 @@
 
         <h1
             id="coin-heading"
-            class="break-words text-center text-2xl font-medium text-[#A970FF]"
+            class="break-words text-center text-2xl font-medium text-[#F5F0FF]"
         >
             {{ coin.name|default:"Coin unavailable" }}
         </h1>
@@ -53,7 +53,7 @@
     >
         <h2
             id="stats-heading"
-            class="mb-6 text-center text-xl font-medium uppercase tracking-wide text-[#A970FF]"
+            class="mb-6 text-center text-xl font-medium uppercase tracking-wide text-[#F5F0FF]"
         >
             Quick Stats
         </h2>
@@ -63,7 +63,7 @@
                 <dt class="order-2 mt-2 text-xs text-[#B7A3CF]">
                     Price
                 </dt>
-                <dd class="order-1 break-words text-xl font-medium tabular-nums text-[#C7A0FF] xl:text-2xl">
+                <dd class="order-1 break-words text-xl font-medium tabular-nums text-[#F5F0FF] xl:text-2xl">
                     {% if coin and coin.price is not None %}
                         {% if coin.price == 0 %}
                             $0.00
@@ -86,7 +86,7 @@
                 <dt class="order-2 mt-2 text-xs text-[#B7A3CF]">
                     24 Hour Volume
                 </dt>
-                <dd class="order-1 break-words text-xl font-medium tabular-nums text-[#C7A0FF] xl:text-2xl">
+                <dd class="order-1 break-words text-xl font-medium tabular-nums text-[#F5F0FF] xl:text-2xl">
                     {% if coin.volume and coin.volume != 'N/A' %}
                         ${{ coin.volume }}
                     {% else %}
@@ -130,7 +130,7 @@
     >
         <h2
             id="news-heading"
-            class="mb-5 shrink-0 text-center text-xl font-medium uppercase tracking-wide text-[#A970FF]"
+            class="mb-5 shrink-0 text-center text-xl font-medium uppercase tracking-wide text-[#F5F0FF]"
         >
             News
         </h2>
@@ -181,7 +181,7 @@
     >
         <h2
             id="chart-heading"
-            class="mb-5 shrink-0 text-center text-xl font-medium uppercase tracking-wide text-[#A970FF]"
+            class="mb-5 shrink-0 text-center text-xl font-medium uppercase tracking-wide text-[#F5F0FF]"
         >
             30 Day Price Chart
         </h2>
@@ -289,7 +289,7 @@ document.addEventListener('DOMContentLoaded', function () {
                 datasets: [{
                     label: 'Price',
                     data: prices,
-                    borderColor: '#A970FF',
+                    borderColor: '#F5F0FF',
                     backgroundColor: 'rgba(169, 112, 255, 0.07)',
                     borderWidth: 2,
                     fill: 'origin',

diff --git a/tracker/templates/tracker/home.html b/tracker/templates/tracker/home.html
@@ -7,7 +7,7 @@
     <section aria-labelledby="market-heading">
         <h1
             id="market-heading"
-            class="mb-4 text-center text-2xl font-medium uppercase tracking-wide text-[#A970FF]"
+            class="mb-4 text-center text-2xl font-medium uppercase tracking-wide text-[#F5F0FF]"
         >
             Market Movers
         </h1>
@@ -29,7 +29,7 @@
             >
                 <h2
                     id="gainers-heading"
-                    class="mb-4 text-center text-xl font-medium uppercase tracking-wide text-[#A970FF]"
+                    class="mb-4 text-center text-xl font-medium uppercase tracking-wide text-[#F5F0FF]"
                 >
                     Top 24 Hour Gainers
                 </h2>
@@ -82,7 +82,7 @@
             >
                 <h2
                     id="losers-heading"
-                    class="mb-4 text-center text-xl font-medium uppercase tracking-wide text-[#A970FF]"
+                    class="mb-4 text-center text-xl font-medium uppercase tracking-wide text-[#F5F0FF]"
                 >
                     Top 24 Hour Losers
                 </h2>
@@ -134,7 +134,7 @@
     <section aria-labelledby="top-coins-heading">
         <h2
             id="top-coins-heading"
-            class="mb-4 text-center text-2xl font-medium uppercase tracking-wide text-[#A970FF]"
+            class="mb-4 text-center text-2xl font-medium uppercase tracking-wide text-[#F5F0FF]"
         >
             Top Coins
         </h2>
@@ -159,7 +159,7 @@
 
                     <h3
                         title="{{ coin.name }}"
-                        class="w-full truncate text-xl font-medium text-[#A970FF] transition-colors group-hover:text-[#C7A0FF]"
+                        class="w-full truncate text-xl font-medium text-[#F5F0FF] transition-colors group-hover:text-[#C7A0FF]"
                     >
                         {{ coin.name }}
                     </h3>

diff --git a/tracker/templates/base.html b/tracker/templates/base.html
@@ -47,7 +47,7 @@
             <a
                 href="{% url 'home' %}"
                 aria-label="Crypto Hotspot home"
-                class="w-fit shrink-0 rounded-sm text-base font-medium leading-relaxed text-[#A970FF] transition-colors hover:text-[#C7A0FF] focus-visible:outline-2 focus-visible:outline-offset-4 focus-visible:outline-[#A970FF]"
+                class="w-fit shrink-0 rounded-sm text-base font-medium leading-relaxed text-[#F5F0FF] transition-colors hover:text-[#C7A0FF] focus-visible:outline-2 focus-visible:outline-offset-4 focus-visible:outline-[#A970FF]"
             >
                 Crypto<br>
                 Hotspot
